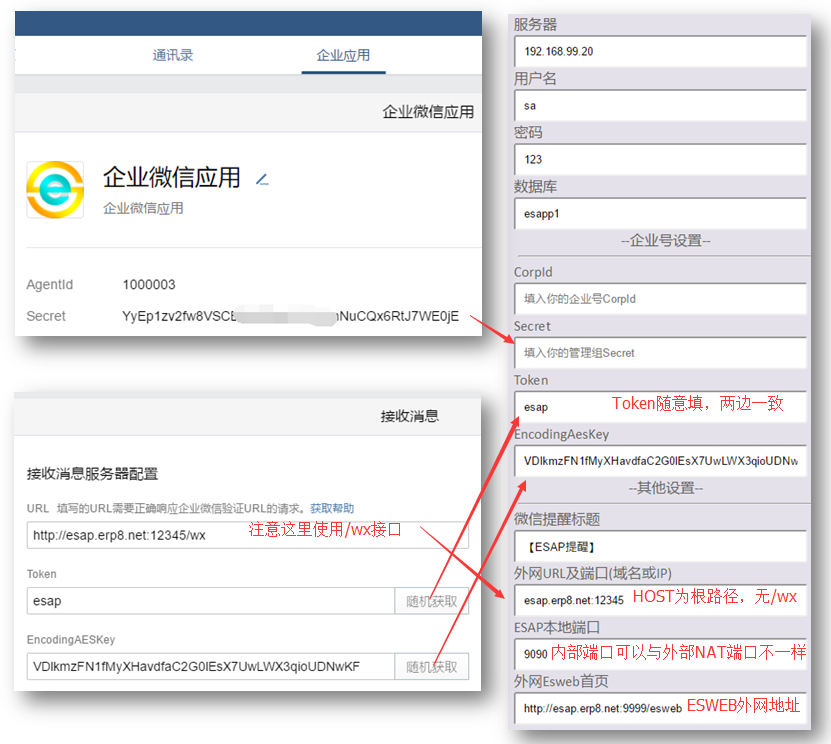
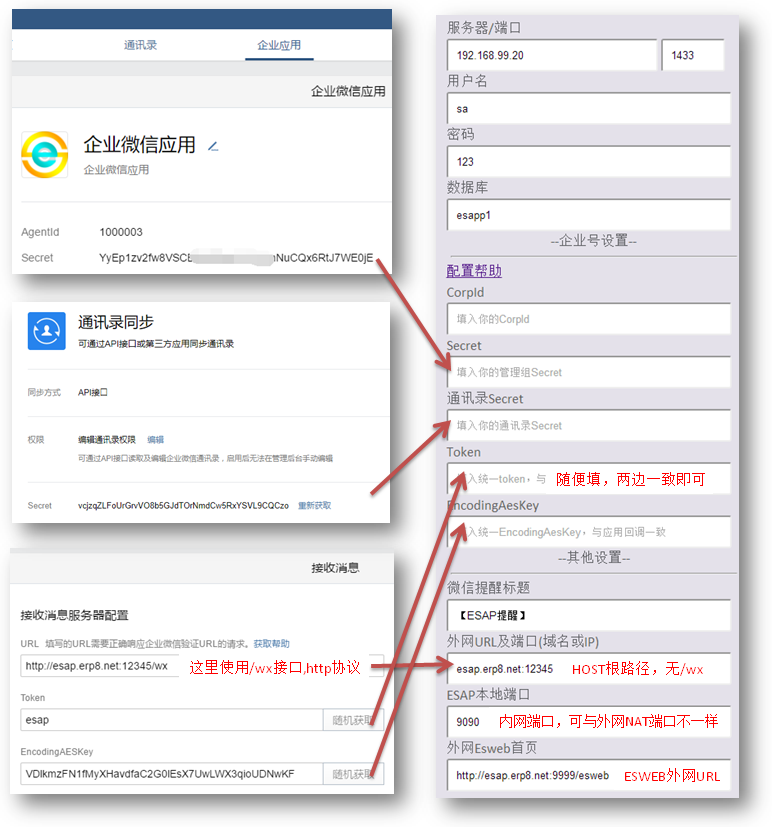
2.8beta6

diff --git a/README.md b/README.md
@@ -8,10 +8,10 @@
 #### [快速开始](s0.md)
 
 #### 重要通知
-<span style="color:red">目前企业号与企业微信正在逐步合并，请已升级到企业微信的用户尽量使用2.8beta5+版本</span>
+<span style="color:red">目前企业号与企业微信正在逐步合并，请已升级到企业微信的用户尽量使用2.8+版本</span>
 
 ##### 最新版本
-* <a href="./build/esap2.8_freedom_beta5.rar" target="_blank">v2.8 freedom beta5</a><span style="color:red"> new!</span>
+* <a href="./build/esap2.8_freedom_beta6.rar" target="_blank">v2.8 freedom beta6</a><span style="color:red"> new!</span>
 
 ##### 其他版本
 * <a href="./build/esap2.7destiny_x86.rar" target="_blank">v2.7destiny正式版x86</a>
@@ -51,6 +51,12 @@
 ##### v2.8 freedom!
 公测中^_^
 
+* [新增]新增ES组织架构增量同步。<span style="color:red">玩家需求!</span>
+* [新增]新增agents配置项，可手工配置代理多个企业微信应用。
+* [调整]微信专用查询(qname=agentId)隔离其他查询，菜单查询不受限制。
+* [调整]微信查询默认使用打包模式。
+* [新增]微信查询新增safe字段，控制回复是否使用保密消息。<span style="color:red">玩家需求!</span>
+* [新增]新增dbport配置，用于配置数据库端口。
 * [新增]兼容企业微信，新增文本卡片消息，仅使用企业微信时有颜色效果（灰色(gray)、高亮(highlight)、默认黑色(normal)）。
 * [新增]微信查询的结果无字段名称时，将省略名称和冒号，实现更灵活的输出。
 * [新增]微信查询进入提醒可写sql，实现灵活的提醒功能，需配置showfunclistenter=true。<span style="color:red">玩家需求!</span>
@@ -71,15 +77,15 @@
 
 * [新增]新增WxqdTitle配置项，用于配置微信签到显示标题。
 * [新增]新增upload接口，用于上传图片文件。
-* [新增]微信查询新增P参数，表示输入的所有内容。
+* [新增]微信查询新增P参数(大写)，表示输入的所有内容。
 * [新增]新增计划任务模块(全新的玩法，更多的脑洞)；<span style="color:red">玩家需求!</span>
 * [新增]微信查询新增多重返回，可以一次写多个select，保证返回的字段数量一致即可；
-* [新增]新增若干开关，可手工更改EsConf配置文件进行调整；
+* [新增]新增若干开关，可手工更改配置文件进行调整；
 * [新增]微信查询新增默认应用支持(全新的玩法，更多的脑洞)；<span style="color:red">玩家需求!</span>
-* [新增]新增log模块，运行日志写入esap.log文件，上次日志存入日志备份(esap.log.bak)，当配置Debug=false时，将不再打印sql模板相关信息，可大幅减小日志文件体积；
+* [新增]新增log模块，运行日志写入esap.log文件，~~上次日志存入日志备份(esap.log.bak)~~，当配置Debug=false时，将不再打印sql模板相关信息，可大幅减小日志文件体积；
 * [新增]微信提醒增加重发机制(配置文件ReTryMsg=true)，海外用户应用时更稳定；<span style="color:red">玩家需求!</span>
 * [新增]微信提醒“部门/职位”格式的接收人支持；<span style="color:red">玩家需求!</span>
-* [调整]微信提醒接收人填报更自由，可使用姓名，账号，手机号，微信号，邮箱，职位，部门任意组合搭配；
+* [调整]微信提醒接收人填报更自由，可使用姓名，账号，手机号，~~微信号，邮箱，~~职位，部门任意组合搭配；
 * [新增]支持保密消息(safe=1)；<span style="color:red">玩家需求!</span>
 * [新增]ESWEB待办事宜列表打开；
 * [新增]超级查询新增用户进入时显示可用查询列表(配置ShowFuncListEnter=true)，企业号端需开启`上报用户进入`，此外配置文件ShowFuncList=true时，查询中未匹配任何功能也会返回可用查询列表；
@@ -149,7 +155,7 @@
 
 * 修复BOM复制本表代码；  
 * 更新vBOM、vPBOM视图，修复子件超过10个的RN排序问题；  
-* 导入微信提醒、微信通讯录、微信提醒视图(vwxtx)；    
+* 导入微信提醒、~~微信通讯录、微信提醒视图(vwxtx)~~；    
 * 增加微信企业号API及基本配置； 
 
 ##### v2.0 

diff --git a/s0.md b/s0.md
@@ -2,32 +2,32 @@
 
 * [申请企业微信](#申请企业微信)
 * [设置企业应用](#设置企业应用)
-* [安装ESAP](#安装ESAP)
-* [启动配置API](#启动配置API)
+* [安装服务](#安装服务)
+* [启动配置](#启动配置)
 * [更改高级配置](#更改高级配置)
 
 ## 申请企业微信
 * 首先到企业微信官网申请账号：[https://work.weixin.qq.com/](https://work.weixin.qq.com/)
 
 ## 设置企业应用
-* 登陆你申请好的企业微信,进入【我的企业】，记录下`CorpID`
+* 登陆企业微信,进入【我的企业】，记录下`CorpID`
 
 ![](./img/s0-2.png)
 
 * 进入【企业应用】--【添加应用】--【创建应用】,进入该应用记录下`AgentId`和`Secret`
 
-* 点击【接收消息】--【设置】，可进入回调界面，暂停企业微信的设置，准备安装ESAP。
-
 ![](./img/s0-1.png)
 
-## 安装ESAP
-* 从ESAP项目首页：[https://erp8.net/esap/](./README.md)下载最新的服务器文件包。
+* 点击【接收消息】--【设置】，可进入回调界面，暂停企业微信的设置，准备安装ESAP。
+
+## 安装服务
+* 从ESAP官方首页：[https://erp8.net/esap/](./README.md)下载最新的服务器文件包。
 
 * 解压下载的文件包，将其中`【微信提醒】`模板导入你的ES应用中。
 
 > 注意，模板导入时可能会提示导入公式或工作流出错，这个是正常的，请无视。
 
-## 启动配置API
+## 启动配置
 * 双击esap.exe启动即可,首次启动后会自动进入配置界面，默认是:[localhost:9090/conf](https://localhost:9090/conf)
 
 各参数配置示例如下：
@@ -39,24 +39,28 @@
 * 完成首次配置保存后，会生成esap.yml配置文件，用Notepad++手工编辑可开启一些高级配置。
 
 ```yaml
- token: #你的企业号应用回调token，随意填写
- encodingAesKey: #你的企业号应用回调EncodingAesKey
  corpid: #你的企业号CorpID 
  secret: #你的管理组Secret
+ txlsecret: #你的通讯录同步Secret
+ token: #你的企业号应用回调统一token，随意填写
+ encodingAesKey:  #你的企业号应用回调统一EncodingAesKey
+ agents:
+  1000002: "1000002的secret"  #多应用代理，可自行往下复制扩展
+  1000003: "1000003的secret"
  port: 9090  #ESAP服务端口
  wxtxTitle: 【ESAP提醒】  #微信提醒标题
  wxqdtitle: "" #微信签到标题
  needWxOAuth2: false
- host: www.erp8.net #ESAP外网IP(域名)
+ host: www.erp8.net:12345 #ESAP外网IP(域名),不填端口号则使用port端口
  esweb: http://www.erp8.net:9999/esweb #ESweb外网页面
  server: . #数据库服务器，本机可填.号，完整示例：192.168.1.10/实例名,端口
  userId: sa #数据库用户名
  pwd: 123 #数据库密码
- dbName: esap #ES应用数据库，可以改成esapp1
- retrymsg: false  #微信提醒重发开关，为true时，发送失败的提醒将重发
- showfunclist: false #微信查询列表开关，为true时，查询未匹配时显示可用列表
- showfunclistenter: false #为true并且回调勾选了用户进入上报，则用户进入时显示可用列表
- debug: true #调试模式开关，为true时，log中输出调试详情
+ dbName: esap #ES应用数据库，改成自己的库，例如esapp1
+ retrymsg: false  #微信提醒失败重发开关，为true时开启
+ showfunclist: false #微信查询未匹配时显示可用列表开关，为true时开启
+ showfunclistenter: false #用户进入时显示可用列表开关，为true时开启
+ debug: true #调试模式开关，为true时开启，log中输出调试详情
 ```
 
 > 注意，不推荐用windows的记事本编辑，可能会导致无法读取配置

diff --git a/txl.md b/txl.md
@@ -1,0 +1,54 @@
+# 通讯录同步
+* 2.8版开始，新增通讯录同步计划，可直接同步ES部门和用户，该功能属于测试阶段，默认不开启，请自行配制task.json进行开启，同时配置txlsercet为通信录sercet，并开启编辑通讯录权限。
+
+## 开启企业微信端同步接口
+* 登陆【企业微信】-【管理工具】-【通讯录同步】，权限选择编辑通讯录权限。
+
+![](./img/txl-1.png)
+
+## 开启esap同步计划
+* 修改task.json,开启`增量同步ES组织`计划，建议周期20分钟
+
+![](./img/txl-2.png)
+
+## *自定义通讯录同步[高级教程]
+* esap强大的sql模板功能，允许用户自定义通讯录表，从而实现任何基于sql的系统组织架构同步。
+
+* 具体实现步骤非常简单，找到sql/get/task.tpl使用notepad++进行编辑
+
+* 其中的`sync.dept`，`sync.user`两个模板，指向其他自定义数据表，并保证输出字段一致即可。
+
+```
+{ {define "sync.dept"} }
+SELECT DeptName name		--部门名称
+	,DeptId id		--部门id
+	,isnull(SuperId,1) parentid		--上级id
+	,10000-floor(right(Path,2)) as Order1		--排序，越大越靠前
+FROM ES_Dept
+where DeptId>1
+{ {end} }
+
+{ {define "sync.user"} }
+SELECT
+	UserLogin userid		--用户账号，唯一
+	,UserName name		--用户姓名
+	,mobilephone mobile		--用户手机，唯一
+	,DeptId dept		--用户部门id
+	,roleNames position		--用户职位
+	,Email		--用户Email
+FROM ES_User
+{ {end} }
+```
+
+* 更改示例：(部门同步改到wxdept表，用户同步改到wxtxl表)
+
+```
+{ {define "sync.dept"} }
+SELECT name, id, parentid, Order1
+FROM wxdept
+{ {end} }
+
+{ {define "sync.user"} }
+SELECT userid, name, mobile, dept, position, Email FROM wxtxl
+{ {end} }
+```

diff --git a/ref.md b/ref.md
@@ -34,6 +34,7 @@
 - [x] 超级查询可用列表可自由屏蔽 @常想一二
 - [x] 超级查询可省略查询名，调用默认应用 @常想一二
 - [x] 超级查询增加一个参数，代表输入的所有内容 @zlustb00
+- [x] 超级查询新增保密消息回复 @624091777
 - [x] **支持自定义权限(开启微信权限管理新姿势!)  @新新**
 - [x] 微信权限支持直接使用账号(重名问题) @木头，@平常心
 - [x] 微信权限支持用户多选，逗号分隔 @简单生活
@@ -52,10 +53,12 @@
 - [x] 邮件支持SSL @简单生活
 - [x] 将微信通讯录提取到本地 @简单生活 (2.6+已取消es通讯录，不再适用)
 - [x] ES通讯录自动同步到微信企业号 @平常心 (2.6+已取消es通讯录，不再适用)
+- [x] ES组织架构自动同步到微信企业号 @灵感
 - [x] esmail自定义发件人支持(不使用系统Email账户) @柳亚子
 - [x] 进入应用时可以主动发送特定查询 @平淡人生
 - [ ] 自定义并同步到微信企业号应用菜单 @挥霍十年
 - [ ] admin模块可查询日志 @lengmu
+- [ ] 微信权限支持标签 @624091777
 
 #### 未采纳:(
 - 封装成系统服务模式启动(请使用nssm) @KO 

diff --git a/dep.md b/dep.md
@@ -1,6 +1,8 @@
 # 部署ESAP服务
 在生产环境中，esap可以使用nssm封装为服务，从而实现开机自动运行和崩溃自动重启。
 
+* 注意，esap2.8版开始整合了nssm,可以通过双击install.bat以及uninstall.bat实现服务一键安装和卸载
+
 * [安装服务](#安装服务)
 * [配置自启](#配置自启)
 * [卸载服务](#卸载服务)

diff --git a/task.md b/task.md
@@ -2,7 +2,7 @@
 * 2.7版开始，新增了计划任务功能，目前包括两种用户计划任务和两种系统计划任务(微信提醒，esmail)：
 
  1. 查询任务（select）
- 2. 执行任务（update，insert，delete）
+ 2. 执行任务（update/insert/delete）
 
 ## 配置方式
 * 首先，到sql/get/task.tpl中编辑需要执行的sql模板

diff --git a/SUMMARY.md b/SUMMARY.md
@@ -8,6 +8,7 @@
  - [增强功能](s3.md)
  - [微信权限](acl.md)
  - [计划任务](task.md)
+ - [通讯录同步](txl.md)
  - [常见问题](qa.md)
 * [ESAP起源](his.md)
  - [第1章 一切从吐槽说起](c1.md)
